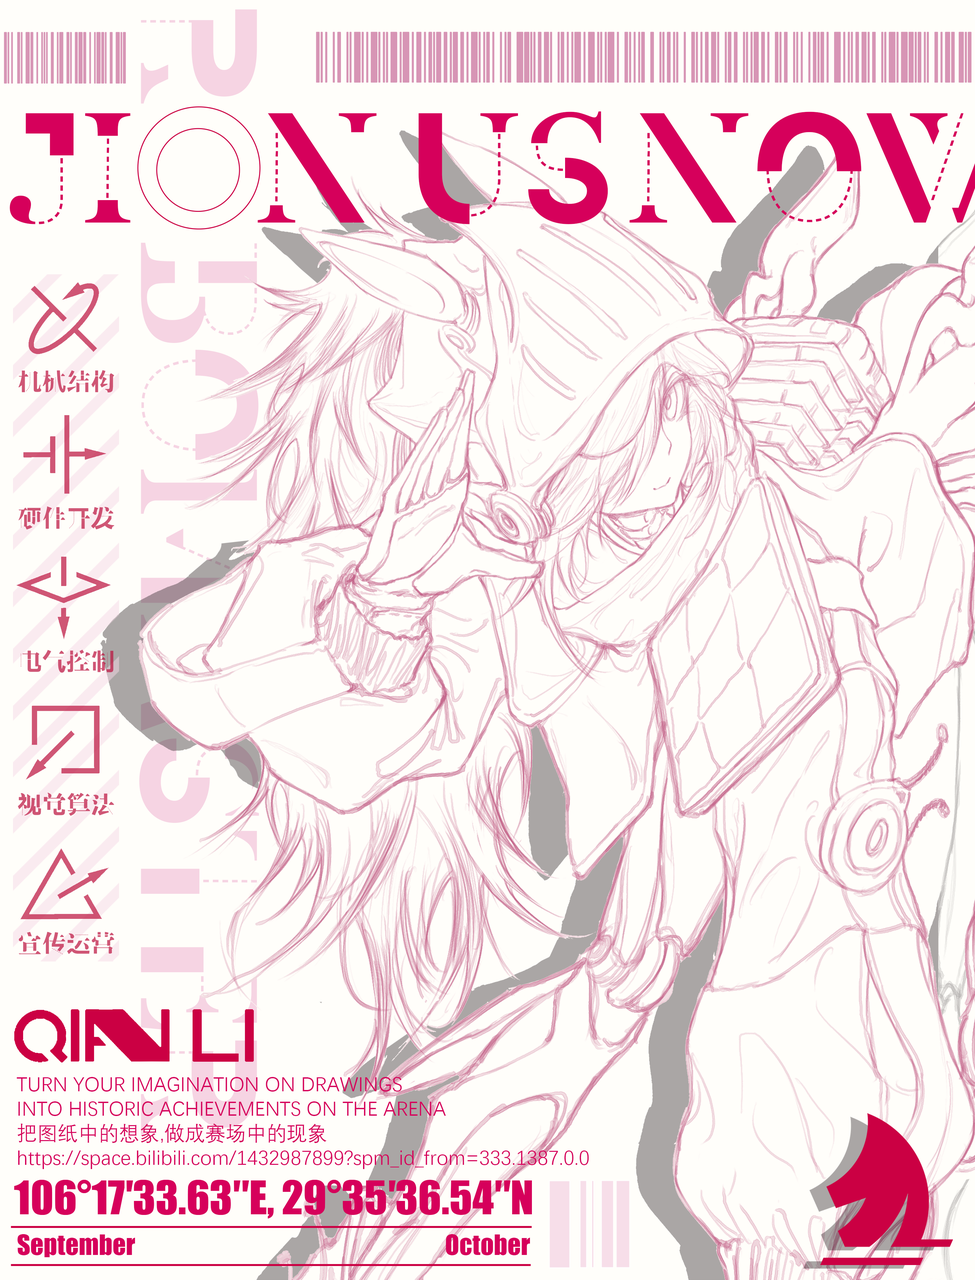
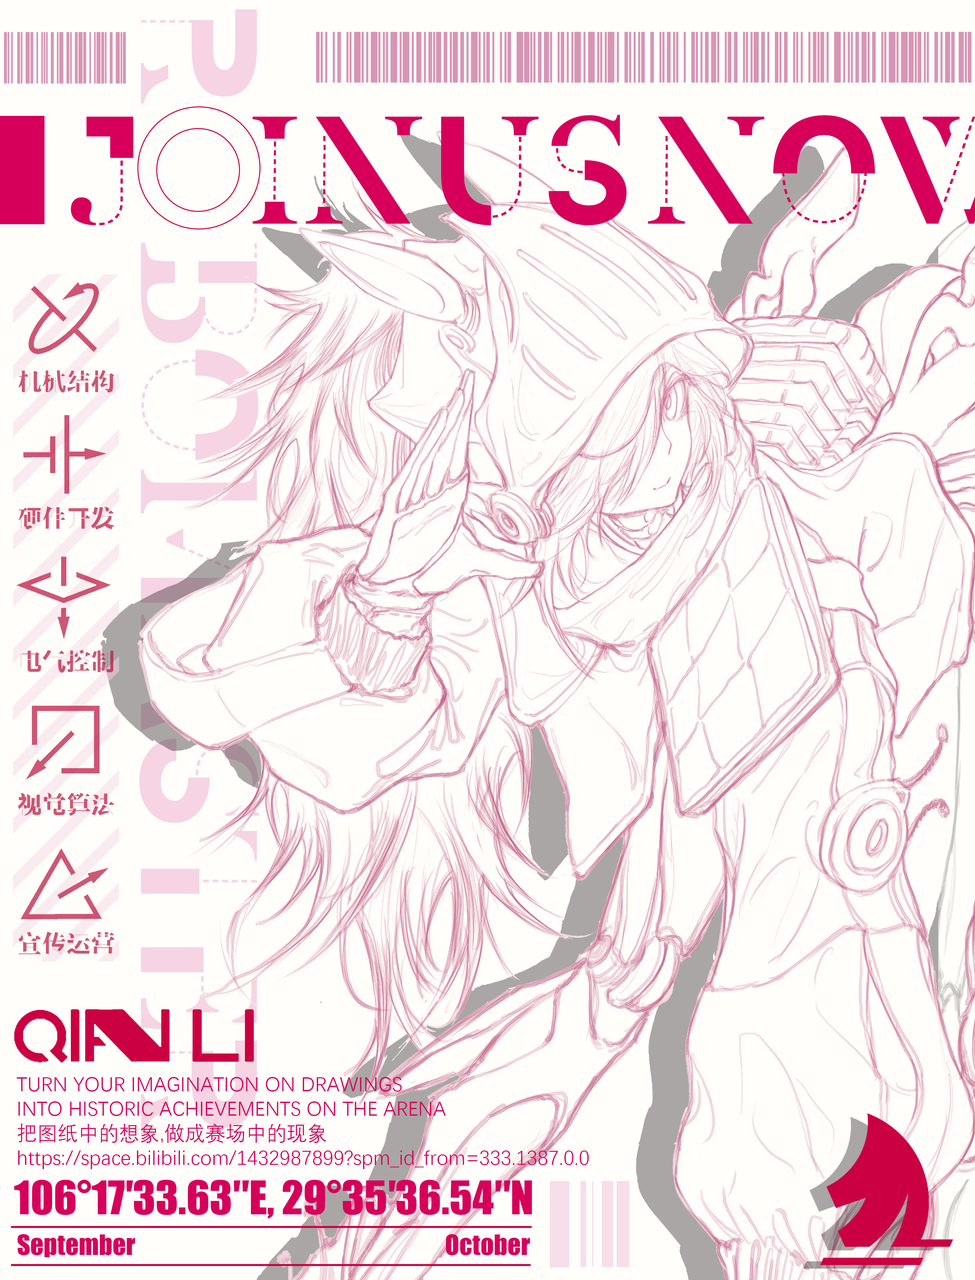
fix join recruitment poster

Changed region(s): [[0.2462, 0.0625, 1.0, 0.1875], [0.0, 0.0625, 0.1538, 0.1875]]

diff --git a/join/index.html b/join/index.html
@@ -164,7 +164,7 @@
       </section>
     </div>
     <figure class="media-frame recruit-main-poster poster-with-credit">
-      <img src="assets/images/content/join/join-us-poster.png" alt="加入千里战队招新设计海报" />
+      <img src="assets/images/content/join/join-us-poster.png?v=20260826-corrected" alt="加入千里战队招新设计海报" />
       <figcaption>© 鄢政（排版设计）· OnlyPupPet（人物线稿）</figcaption>
     </figure>
   </section>
